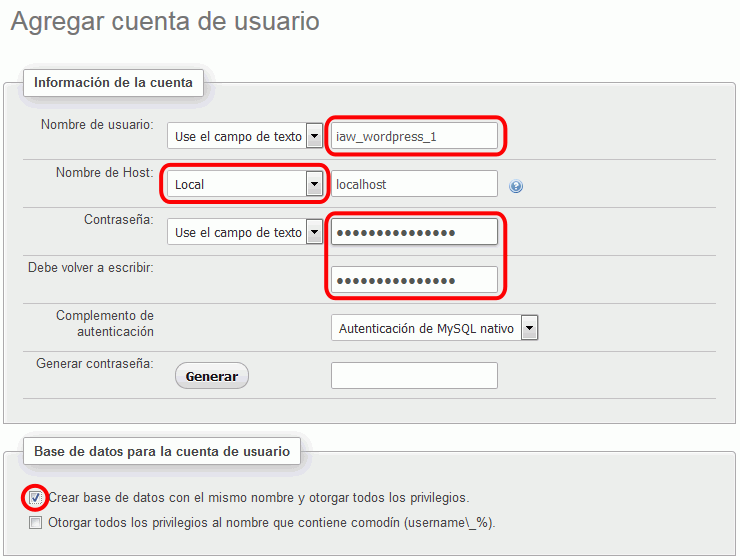
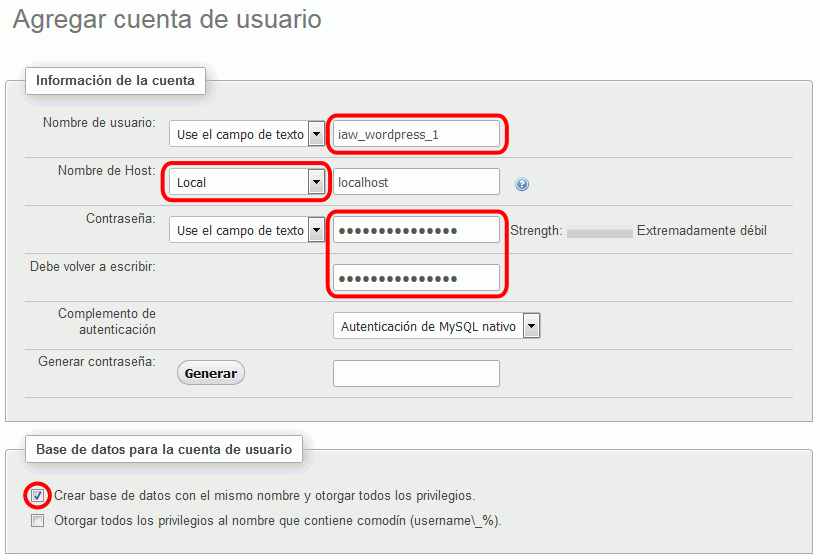
Empiezo a actualizar Soluciones WordPress 1

Changed region(s): [[0.0, 0.1214, 0.9946, 1.0], [0.0, 0.0, 0.4351, 0.0607]]

diff --git a/lecciones/wordpress-1-soluciones.html b/lecciones/wordpress-1-soluciones.html
@@ -53,27 +53,22 @@
 
   <p>En esta lección se proponen soluciones detalladas de los <a href="wordpress-1.html">ejercicios (1) de WordPress</a>. Se recomienda intentar realizarlos primero sin recurrir a estas soluciones.</p>
 
-  <p class="incompleto"><img src="../varios/iconos/icono-en-construccion.svg" alt="En construcción" title="En construcción" width="55" height="48" />Algunas capturas están pendientes de actualizar a la versión WordPress 4.7.</p>
+  <p class="incompleto"><img src="../varios/iconos/icono-en-construccion.svg" alt="En construcción" title="En construcción" width="55" height="48" />Algunas capturas están pendientes de actualizar a la versión WordPress 4.9.</p>
 
   <section id="ejercicio-1">
     <h2>WordPress (1) 1 - Descargar </h2>
     <ol>
       <li>La página web de WordPress en español es <a href="https://es.wordpress.org/">https://es.wordpress.org/</a>. La página oficial en inglés es <a href="https://wordpress.org/">https://wordpress.org/</a>.</li>
       <li>Desde la página principal del sitio se puede descargar la última versión. Las versiones anteriores están disponibles en <a href="https://es.wordpress.org/releases/#older">https://es.wordpress.org/releases/#older</a>.
-        <p>La última versión disponible actualmente (enero de 2017) es la versión 4.7.2, publicada el 26 de enero de 2017 (aunque el fichero disponible para descargar puede ser de una fecha posterior, ya que lo actualizan cuando se modifica la traducción al español). Esta lección está escrita para esa versión.</p>
-        <p>Como en un ejercicio posterior consiste en la actualización de WordPress, se recomienda instalar una versión anterior, por ejemplo la versión 4.7 en español, publicada el 11 de diciembre de 2016. Se puede descargar de <a href="https://es.wordpress.org/wordpress-4.7-es_ES.zip">https://es.wordpress.org/wordpress-4.7-es_ES.zip</a>.</p>
-        <p>Si la versión <strong>WordPress 4.7 (en español)</strong> ya no está disponible en la web del programa, puede descargarla desde la página de <a href="../otros/descarga-aplicaciones.html">Descarga de aplicaciones</a>.</p>
+        <p>La última versión disponible actualmente (enero de 2019) es la versión 4.9.1, publicada el 29 de noviembre de 2018 (aunque el fichero disponible para descargar puede ser de una fecha posterior, ya que lo actualizan cuando se modifica la traducción al español). Esta lección está escrita para esa versión.</p>
+        <p>Como en un ejercicio posterior consiste en la actualización de WordPress, se recomienda instalar una versión anterior, por ejemplo la versión 4.9 en español, publicada el 16 de noviembre de 2017. Se puede descargar de <a href="https://es.wordpress.org/wordpress-4.9-es_ES.zip">https://es.wordpress.org/wordpress-4.9-es_ES.zip</a>.</p>
+        <p>Si la versión <strong>WordPress 4.9 (en español)</strong> ya no está disponible en la web del programa, puede descargarla desde la página de <a href="../otros/descarga-aplicaciones.html">Descarga de aplicaciones</a>.</p>
       </li>
       <li>Una vez descargado WordPress, simplemente se debe descomprimir en una carpeta accesible desde el servidor local.
         <p>En estas soluciones, de acuerdo con las <a href="../otros/configuracion.html">recomendaciones de configuración general</a> de estos apuntes, se supondrá que:</p>
         <ul>
-          <li>WordPress se encuentra en la carpeta <strong><strong>:</strong></strong>
-            <p><strong><strong>Mis documentos &gt; IAW Nombre-de-Alumno &gt; Aplicaciones &gt; wordpress</strong></strong>
-            </p>
-          </li>
-          <li>al ejecutar desde Eclipse el fichero <strong>index.php</strong> de WordPress, se abrirá en el navegador la dirección
-            <p><strong>http://localhost/nombre-de-alumno/webapps/wordpress/index.php</strong>.</p>
-          </li>
+          <li>WordPress se encuentra en la carpeta: <strong>Mis documentos &gt; IAW Nombre-de-Alumno &gt; Aplicaciones &gt; wordpress</strong></li>
+          <li>WordPress se abrirá en la dirección: <strong>http://localhost/nombre-de-alumno/webapps/wordpress/</strong></li>
         </ul>
       </li>
     </ol>
@@ -86,7 +81,7 @@
     <ol>
       <li>Cree con phpMyAdmin un usuario de MySQL con nombre <strong>iaw_wordpress_1</strong>, contraseña <strong>iaw_wordpress_1</strong> y base de datos <strong>iaw_wordpress_1</strong>.
         <p class="captura">
-          <img src="../img/wordpress/1-2-s-1-instalar.png" alt="phpMyAdmin. Creación de usuario para WordPress" width="740" height="560" />
+          <img src="../img/wordpress/1-2-s-1-instalar.png" alt="phpMyAdmin. Creación de usuario para WordPress" width="820" height="560" />
         </p>
       </li>
       <li>Abra en el navegador la carpeta de Wordpress (<strong>http:/localhost/.../wordpress/</strong>) y complete la información de acceso a la base de datos:
@@ -94,7 +89,7 @@
           <img src="../img/wordpress/1-2-s-2-instalar.png" alt="WordPress. Instalación" width="760" height="600" />
         </p>
       </li>
-      <li>Rellenar la información necesario para crear el blog. Por ejemplo:
+      <li>Rellene la información necesario para crear el blog. Por ejemplo:
         <ul>
           <li>Título del sitio: <strong>Web Apps blog</strong></li>
           <li>Nombre de usuario: <strong>admin</strong></li>
@@ -103,22 +98,35 @@
           <li>Visibilidad para los buscadores: <strong>dejar desmarcado</strong></li>
         </ul>
         <p class="captura">
-          <img src="../img/wordpress/1-2-s-3-instalar.png" alt="WordPress. Instalación" width="760" height="580" />
+          <img src="../img/wordpress/1-2-s-3-instalar.png" alt="WordPress. Instalación" width="760" height="595" />
         </p>
-        <p>Si no hay errores, el proceso termina en unos segundos y se muestra el formulario de entrada al panel de administración. Para ver el blog como un usuario cualquiera, haga clic en el enlace "Volver a Mi blog". Para entrar en el panel de administración escriba la contraseña del usuario <strong>admin</strong></p>
+        <p>Si no hay errores, el proceso termina en unos segundos y se muestra el formulario de entrada al panel de administración. Para entrar en el panel de administración escriba la contraseña del usuario <strong>admin</strong></p>
         <p class="captura">
           <img src="../img/wordpress/1-2-s-4-instalar.png" alt="WordPress. Instalación" width="370" height="500" />
+        </p>
+      </li>
+      <li>Para ver el blog como un usuario cualquiera, haga clic en el enlace "Volver a WebApps Blog". En los primeros segundos/minutos tras la instalación, mientras WordPress se actualiza automáticamente, se mostrará un mensaje de mantenimiento.
+        <p class="captura">
+          <img src="../img/wordpress/1-2-s-5-a-instalar.png" alt="WordPress. Instalación" width="1008" height="120" />
+        </p>
+        <p>A los pocos segundos, se mostrará la página inicial predeterminada de WordPress:</p>
+        <p class="captura">
+          <img src="../img/wordpress/1-2-s-5-b-instalar.jpg" alt="WordPress. Instalación" width="1008" height="567" />
+        </p>
+        <p>Desplazando la página se mostrará una entrada de ejemplo:</p>
+        <p class="captura">
+          <img src="../img/wordpress/1-2-s-5-c-instalar.jpg" alt="WordPress. Instalación" width="1008" height="567" />
         </p>
       </li>
       <li>
         <p>Se debe abrir una página similar a esta:</p>
         <p class="captura">
-          <img src="../img/wordpress/1-2-s-5-instalar.jpg" alt="WordPress. Aspecto inicial" width="991" height="760" />
+          <img src="../img/wordpress/1-2-s-6-instalar.png" alt="WordPress. Aspecto inicial" width="1008" height="567" />
         </p>
       </li>
       <li>Para cerrar la sesión, haga clic en el nombre de usuario (arriba a la derecha) y haga clic en "Cerrar sesión":
         <p class="captura">
-          <img src="../img/wordpress/1-2-s-6-instalar.jpg" alt="WordPress. Aspecto inicial" width="991" height="180" />
+          <img src="../img/wordpress/1-2-s-7-instalar.jpg" alt="WordPress. Aspecto inicial" width="1008" height="230" />
         </p>
       </li>
     </ol>
@@ -339,7 +347,7 @@
   </section>
 
   <footer>
-    <p class="ultmod">Última modificación de esta página: 6 de febrero de 2017</p>
+    <p class="ultmod">Última modificación de esta página: 11 de enero de 2018</p>
 
     <p class="licencia"><a rel="license" href="https://creativecommons.org/licenses/by-sa/4.0/deed.es_ES"><img src="../varios/iconos/icono-cc-by-sa.svg" alt="Licencia Creative Commons" title="Licencia Creative Commons BY-SA" width="120" height="42" /></a><br />
       Esta página forma parte del curso <strong><a href="http://www.mclibre.org/consultar/webapps/">Aplicaciones web</a></strong> por <a href="http://www.mclibre.org/" rel="author">Bartolomé Sintes Marco</a><br />
